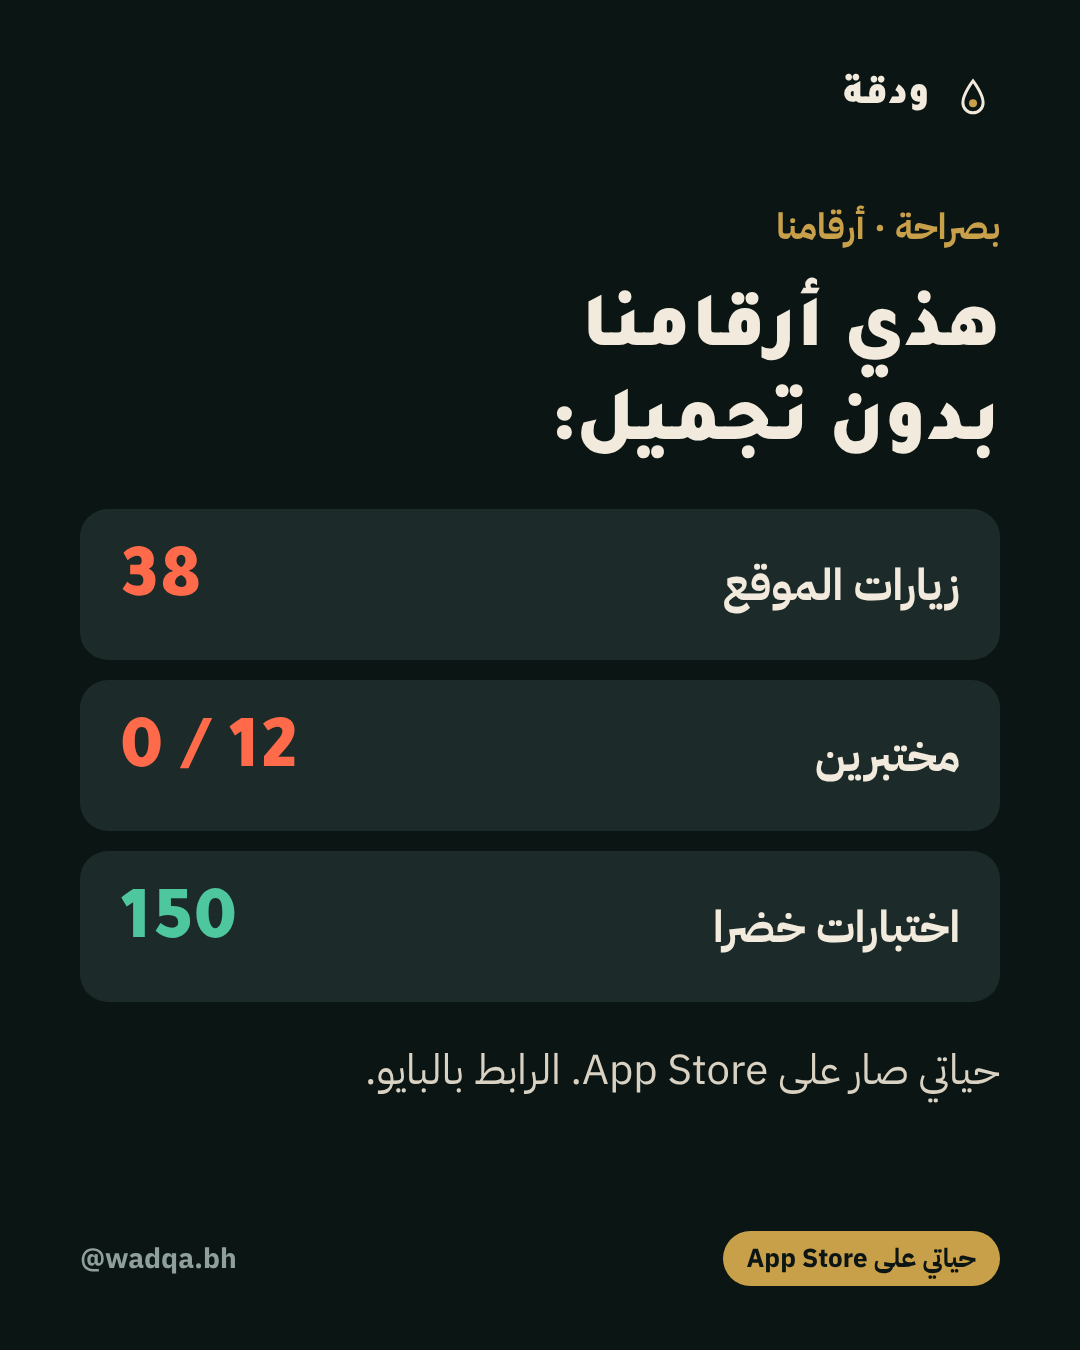
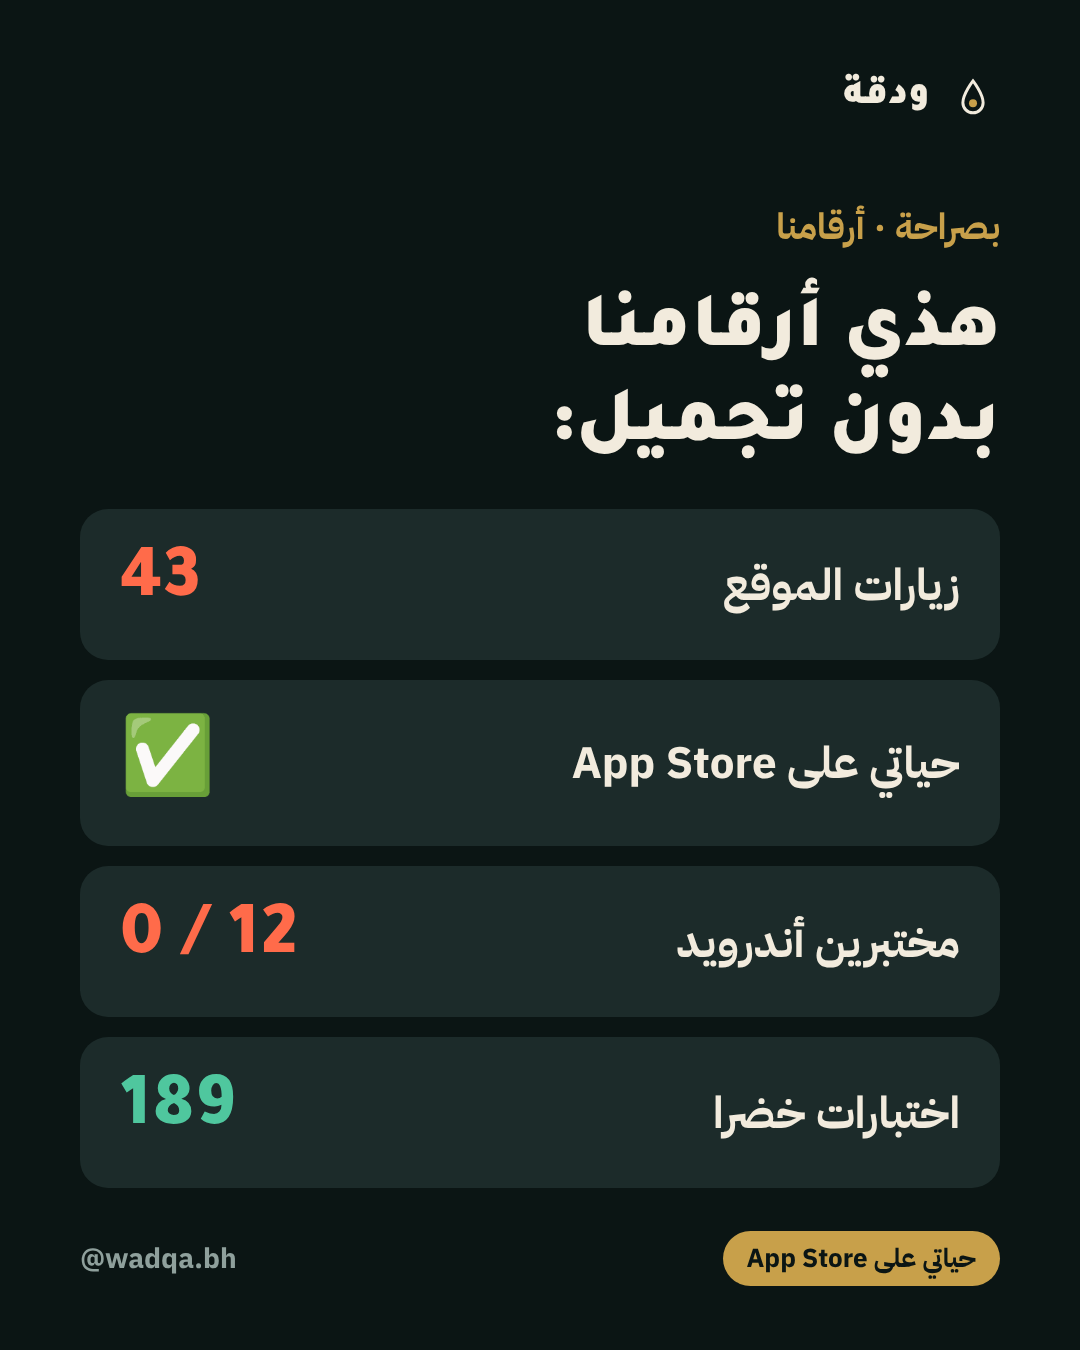
Instagram: post 9 with live numbers (43 visits, App Store, 189 tests)
Claude-Session: https://claude.ai/code/session_0191EUAnPxp55iz8dZ9vAkLx

diff --git a/videos/wadqa-instagram/templates.html b/videos/wadqa-instagram/templates.html
@@ -68,8 +68,7 @@ p.lead { font: 400 42px/1.6 Body; }
 <div class="f post dark" id="t3-honest">
   <div class="logo"><i data-logo></i>ودقة</div>
   <div class="content"><div class="eyebrow">بصراحة · أرقامنا</div><h2>هذي أرقامنا<br>بدون تجميل:</h2>
-    <div class="rows"><div class="r">زيارات الموقع<b>38</b></div><div class="r">مختبرين<b>0 / 12</b></div><div class="r">اختبارات خضرا<b class="ok">150</b></div></div>
-    <p class="lead">حياتي صار على App Store. الرابط بالبايو.</p></div>
+    <div class="rows"><div class="r">زيارات الموقع<b>43</b></div><div class="r">حياتي على App Store<b class="ok">✅</b></div><div class="r">مختبرين أندرويد<b>0 / 12</b></div><div class="r">اختبارات خضرا<b class="ok">189</b></div></div></div>
   <div class="foot"><span class="pill">حياتي على App Store</span><span class="num">@wadqa.bh</span></div>
 </div>
 
